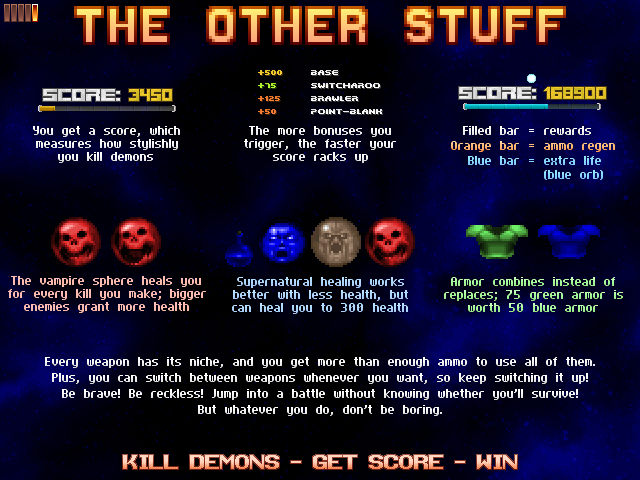
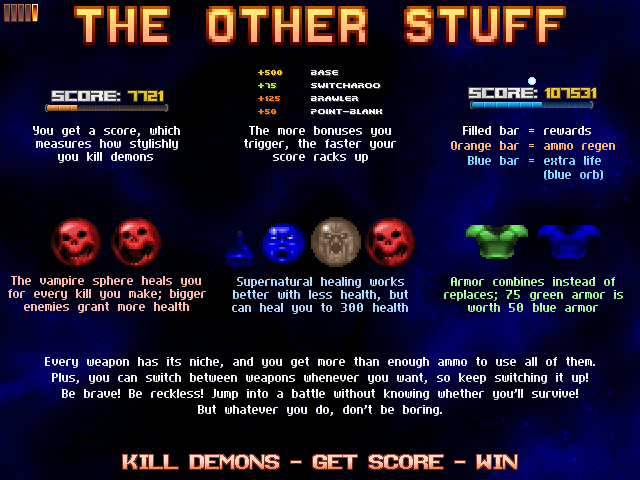
Updated the score display to use 640x480 for everything, instead of the ugly mix of ratios it was before

Changed region(s): [[0.7188, 0.1562, 0.9688, 0.25], [0.0625, 0.1562, 0.2812, 0.25]]

diff --git a/pk3/acs/score/score_display.h b/pk3/acs/score/score_display.h
@@ -36,6 +36,11 @@ function void Score_Update(int pln)
     Score_OldVals[OSCORE_HIDESCORE][pln]  = hideScore;
 }
 
+
+#define BARSTEPS        120
+#define BAROFFSET       ((BARSTEPS / 2) << 16)
+#define BARINCREMENT    12
+
 function void Score_Draw(int curPoints, int goalPoints, int displayPoints, int hideScore, int noScoreRewards)
 {
 
@@ -49,61 +54,67 @@ function void Score_Draw(int curPoints, int goalPoints, int displayPoints, int h
     else
     {
         SetFont("DAKKAFON");
-        SetHudSize(560, 420, 1);
+        SetHudSize(640, 480, 1);
         HudMessage(s:"Score: \c[DScore_Gold]", d:displayPoints;
-                    HUDMSG_PLAIN | HUDMSG_COLORSTRING, 24200, "DScore_White", 455.4, 55.2, 0);
+                    HUDMSG_PLAIN | HUDMSG_COLORSTRING, 24200, "DScore_White", 520.4, 64.2, 0);
     }
 
     if (noScoreRewards || hideScore)
     {
         HudMessage(s:""; HUDMSG_PLAIN, 24401, 0,0,0,0);
+        HudMessage(s:""; HUDMSG_PLAIN, 24201, 0,0,0,0);
 
         for (i = 0; i < 100; i++)
         {
-            HudMessage(s:""; HUDMSG_PLAIN, 24201 + i, 0,0,0,0);
+            HudMessage(s:""; HUDMSG_PLAIN, 24202 + i, 0,0,0,0);
         }
     }
     else
     {
-        int scoreBar, pointBar1, pointBar2, pointBar3;
+        str scoreBar, scoreBrackets, pointBar1, pointBar2, pointBar3;
 
         if (SToC_ClientData[cpln][S2C_D_REWARDCOUNT] % 2)
         {
-            pointBar1 = "POINTBR4";
-            pointBar2 = "POINTBR5";
-            pointBar3 = "POINTBR6";
-            scoreBar  = "SCOREBR2";
+            pointBar1      = "POINTBR4";
+            pointBar2      = "POINTBR5";
+            pointBar3      = "POINTBR6";
+            scoreBar       = "SCOREBR2";
+            scoreBrackets  = "SCOREBKT";
         }
         else
         {
-            pointBar1 = "POINTBR1";
-            pointBar2 = "POINTBR2";
-            pointBar3 = "POINTBR3";
-            scoreBar  = "SCOREBAR";
+            pointBar1      = "POINTBR1";
+            pointBar2      = "POINTBR2";
+            pointBar3      = "POINTBR3";
+            scoreBar       = "SCOREBAR";
+            scoreBrackets  = "SCOREBKT";
         }
 
-        SetHudSize(480, 360, 1);
+        SetHudSize(640, 480, 1);
 
         SetFont(scoreBar);
-        HudMessage(s:"A"; HUDMSG_PLAIN, 24401, CR_UNTRANSLATED, 390.4, 52.0, 0);
+        HudMessage(s:"A"; HUDMSG_PLAIN, 24401, CR_UNTRANSLATED, 520.4, 70.0, 0);
+        
+        SetFont(scoreBrackets);
+        HudMessage(s:"A"; HUDMSG_PLAIN, 24201, CR_UNTRANSLATED, 520.4, 70.0, 0);
 
         if (goalPoints > 0)
         {
-            int pointstep   = goalPoints / 100;
+            int pointstep   = goalPoints / BARSTEPS;
             int barpoints   = curPoints % goalPoints;
             int lastGraphic = "";
 
-            for (i = 0; i < 100; i++)
+            for (i = 0; i < BARSTEPS; i++)
             {
                 int barGraphic = pointBar1;
-                int i10        = i % 10;
+                int increment  = i % BARINCREMENT;
 
-                if (i10 == 0 && i != 0)
+                if (increment == 0 && i > 0)
                 {
                     barGraphic = pointBar3;
                 }
 
-                if (i10 == 9 && i != 99)
+                if (increment == (BARINCREMENT - 1) && i < (BARSTEPS - 1))
                 {
                     barGraphic = pointBar2;
                 }
@@ -118,12 +129,12 @@ function void Score_Draw(int curPoints, int goalPoints, int displayPoints, int h
                         lastGraphic = barGraphic;
                     }
 
-                    HudMessage(s:"A"; HUDMSG_PLAIN, 24201 + i, CR_UNTRANSLATED, 340.1 + (1.0 * i), 52.0, 0);
+                    HudMessage(s:"A"; HUDMSG_PLAIN, 24202 + i, CR_UNTRANSLATED, 520.1 - BAROFFSET + (1.0 * i), 70.0, 0);
                     // 1873 = (1.0 / 35)+1 = 1 tic
                 }
                 else
                 {
-                    HudMessage(s:""; HUDMSG_PLAIN, 24201 + i, CR_UNTRANSLATED, 340.1 + (1.0 * i), 52.0, 0);
+                    HudMessage(s:""; HUDMSG_PLAIN, 24202 + i, CR_UNTRANSLATED, 0,0,0);
                 }
             }
         }
@@ -147,7 +158,7 @@ function void Score_DrawLives(int lives, int hideScore)
         return;
     }
     
-    SetHudSize(560, 420, 1);
+    SetHudSize(640, 480, 1);
 
     int lifeFont;
 
@@ -164,7 +175,7 @@ function void Score_DrawLives(int lives, int hideScore)
 
     int drawLives = min(LIVES_MAXDRAW, lives);
 
-    int borderLeft = itof(455 - (6 * (drawLives - 1)));
+    int borderLeft = itof(520 - (6 * (drawLives - 1)));
 
     for (i = 0; i < LIVES_MAXDRAW; i++)
     {
@@ -174,7 +185,7 @@ function void Score_DrawLives(int lives, int hideScore)
         }
         else
         {
-            HudMessage(s:"A"; HUDMSG_PLAIN, 25501 + i, CR_UNTRANSLATED, 0.4 + borderLeft + (12.0 * i), 40.2, 0);
+            HudMessage(s:"A"; HUDMSG_PLAIN, 25501 + i, CR_UNTRANSLATED, 0.4 + borderLeft + (12.0 * i), 50.2, 0);
         }
     }
 }
